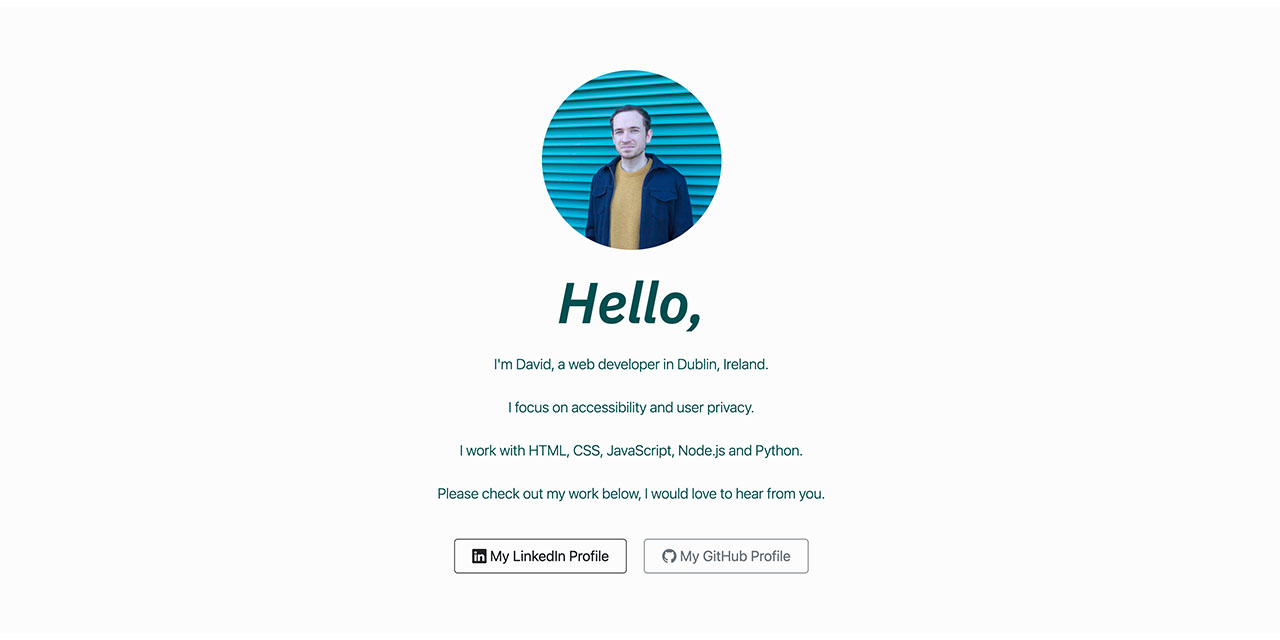
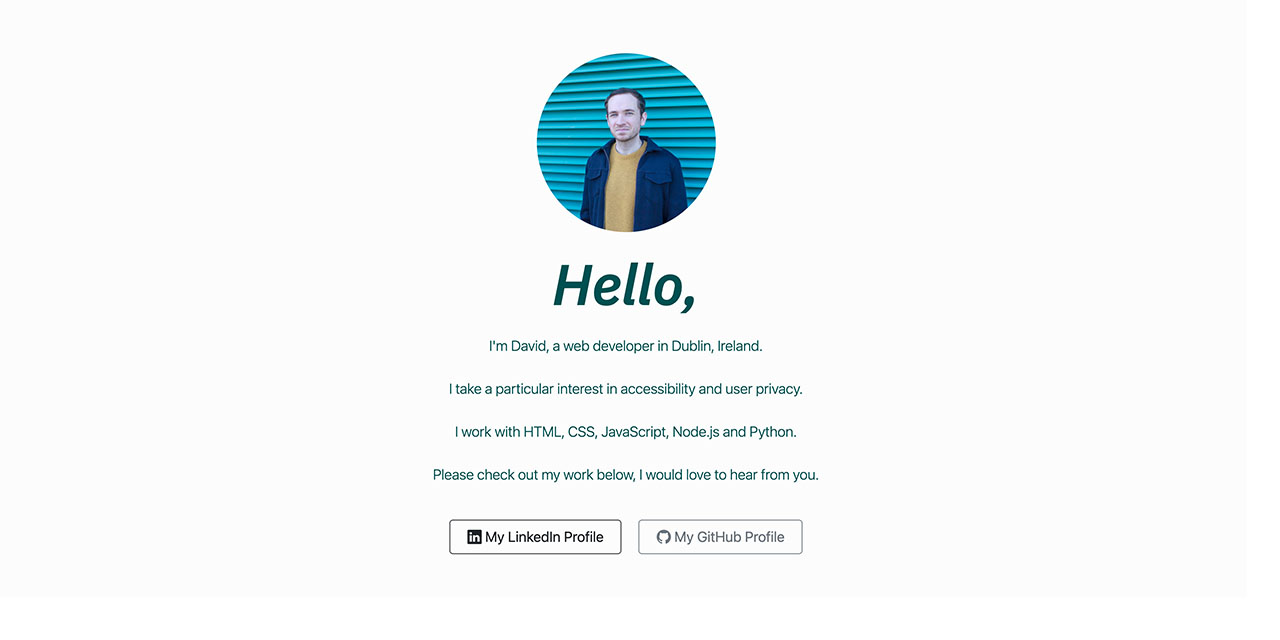
added links

Changed region(s): [[0.3438, 0.0625, 0.6562, 0.7812], [0.3438, 0.8125, 0.625, 0.9062]]

diff --git a/index.html b/index.html
@@ -6,14 +6,30 @@
   <meta http-equiv="X-UA-Compatible" content="IE=edge">
   <meta name="viewport" content="width=device-width, initial-scale=1.0">
 
-  <!-- Social links meta data -->
+<!-- Primary Meta Tags -->
+<title>David Kelly Web Developer</title>
+<meta name="title" content="David Kelly - Web Developer">
+<meta name="description" content="An accessibility focused web developer in Dublin, Ireland.
 
-  <meta property="og:title" content="David Kelly - Web Developer">
-  <meta property="og:description" content="An accessibility focused web developer in Dublin, Ireland">
-  <meta property="og:url" content="https://www.davidindub.com/">
-  <meta name="twitter:card" content="summary_large_image">
-  <meta name="twitter:creator" content="@davidindub">
+HTML, CSS, JavaScript, Node.js and Python.">
 
+<!-- Open Graph / Facebook -->
+<meta property="og:type" content="website">
+<meta property="og:url" content="https://www.davidindub.com/">
+<meta property="og:title" content="David Kelly - Web Developer">
+<meta property="og:description" content="An accessibility focused web developer in Dublin, Ireland.
+
+HTML, CSS, JavaScript, Node.js and Python.">
+<meta property="og:image" content="/socialthumb.jpg">
+
+<!-- Twitter -->
+<meta property="twitter:card" content="summary_large_image">
+<meta property="twitter:url" content="https://www.davidindub.com/">
+<meta property="twitter:title" content="David Kelly - Web Developer">
+<meta property="twitter:description" content="An accessibility focused web developer in Dublin, Ireland.
+
+HTML, CSS, JavaScript, Node.js and Python.">
+<meta property="twitter:image" content="/socialthumb.jpg">
 
   <link href="https://cdn.jsdelivr.net/npm/bootstrap@5.0.0/dist/css/bootstrap.min.css" rel="stylesheet"
     integrity="sha384-wEmeIV1mKuiNpC+IOBjI7aAzPcEZeedi5yW5f2yOq55WWLwNGmvvx4Um1vskeMj0" crossorigin="anonymous">
@@ -21,8 +37,7 @@
   <link rel="stylesheet" href="style.css">
 
   <link rel="preconnect" href="https://fonts.gstatic.com">
-  <link rel="preconnect" href="https://fonts.gstatic.com">
-  <link href="https://fonts.googleapis.com/css2?family=IBM+Plex+Sans:ital,wght@1,600&display=swap" rel="stylesheet">
+  <link href="https://fonts.googleapis.com/css2?family=IBM+Plex+Sans:ital,wght@1,600&display=swap&text=Godmrningafteaven%2C" rel="stylesheet">
   <title>David Kelly</title>
 </head>
 
@@ -41,10 +56,10 @@
             <br><br>
           Please check out my work below, I would love to hear from you.</p>
         <div class="d-grid gap-2 d-sm-flex justify-content-sm-center mt-5">
-          <button type="button" class="btn btn-outline-dark btn-lg px-4 me-sm-3"><i class="bi bi-linkedin" role="img"
-              aria-label="LinkedIn"></i> My LinkedIn Profile</button>
-          <button type="button" class="btn btn-outline-secondary btn-lg px-4"><i class="bi-github" role="img"
-              aria-label="GitHub"></i> My GitHub Profile</button>
+          <a href="https://www.linkedin.com/in/davidkellydublin/"><button type="button" class="btn btn-outline-dark btn-lg px-4 me-sm-3"><i class="bi bi-linkedin" role="img"
+              aria-label="LinkedIn"></i> My LinkedIn Profile</button></a>
+          <a href="https://www.github.com/davidindub"><button type="button" class="btn btn-outline-secondary btn-lg px-4"><i class="bi-github" role="img"
+              aria-label="GitHub"></i> My GitHub Profile</button></a>
         </div>
       </div>
     </div>
